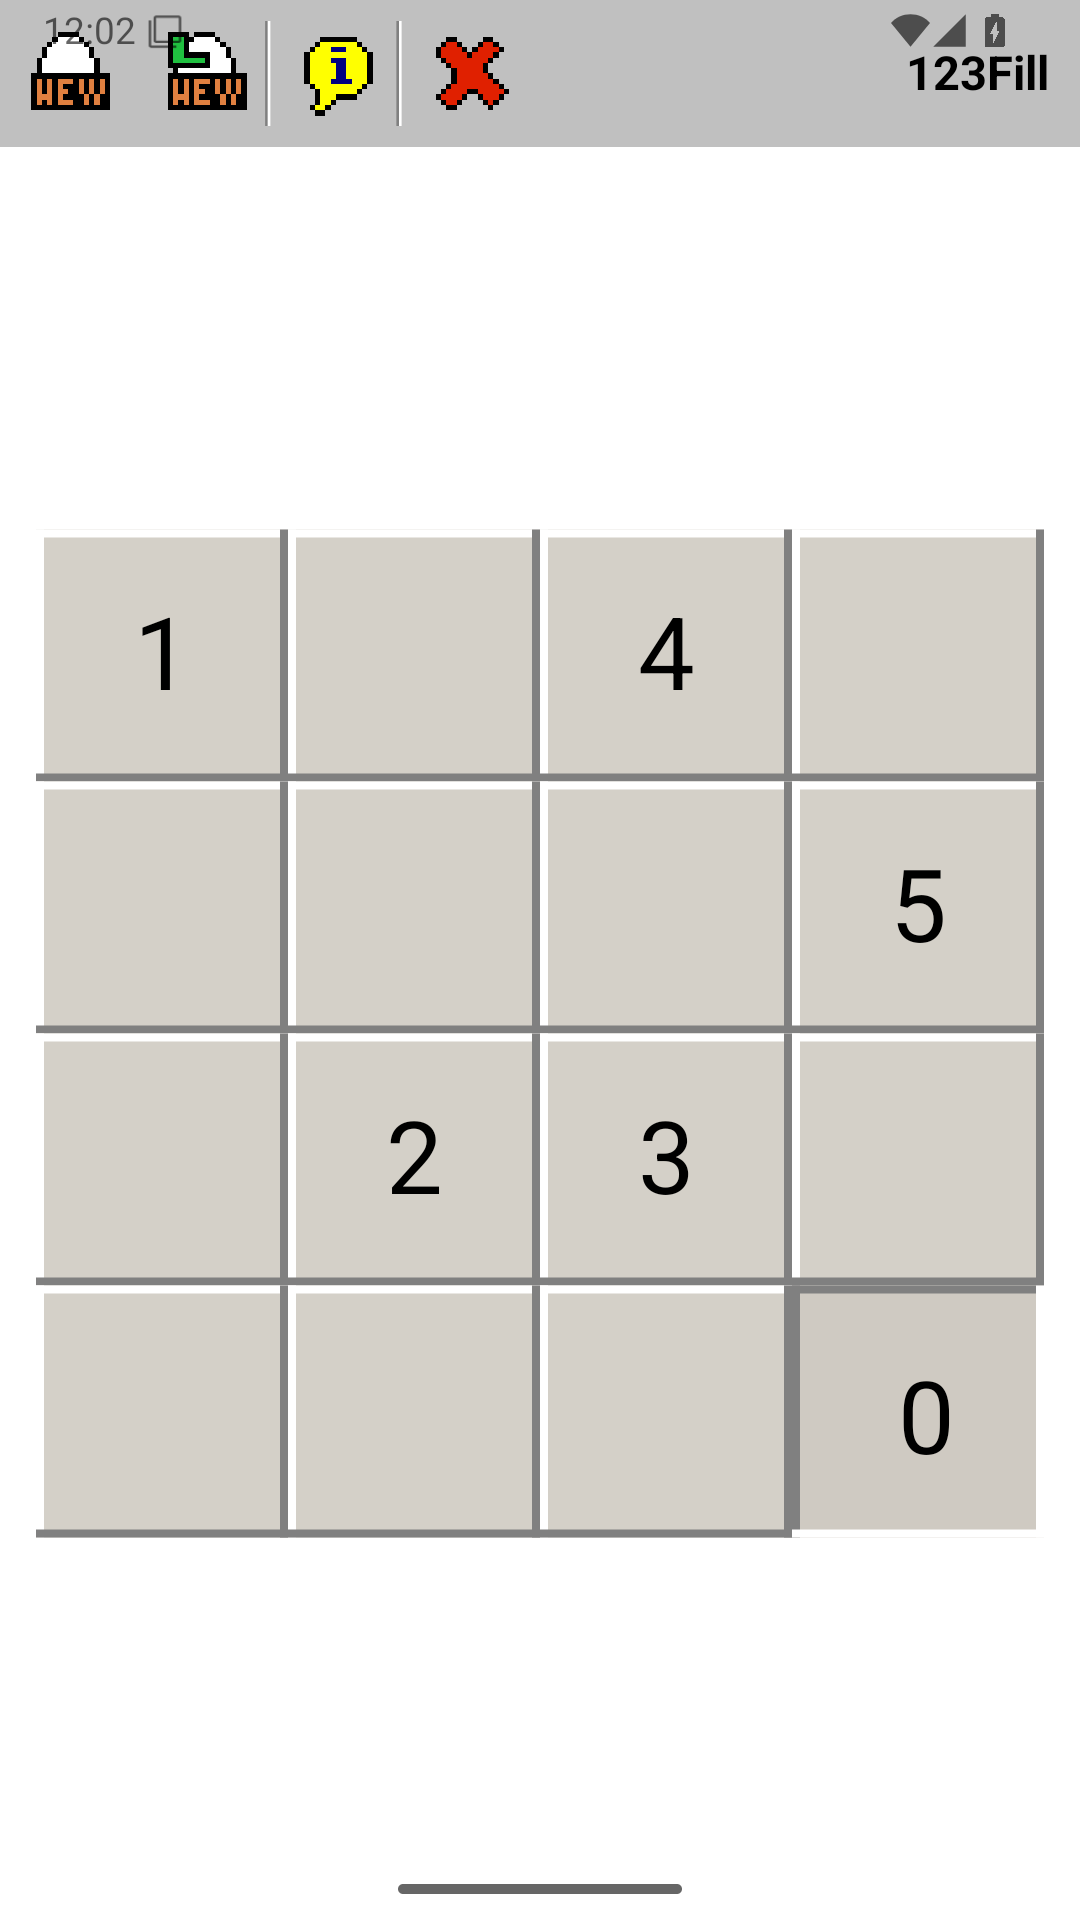
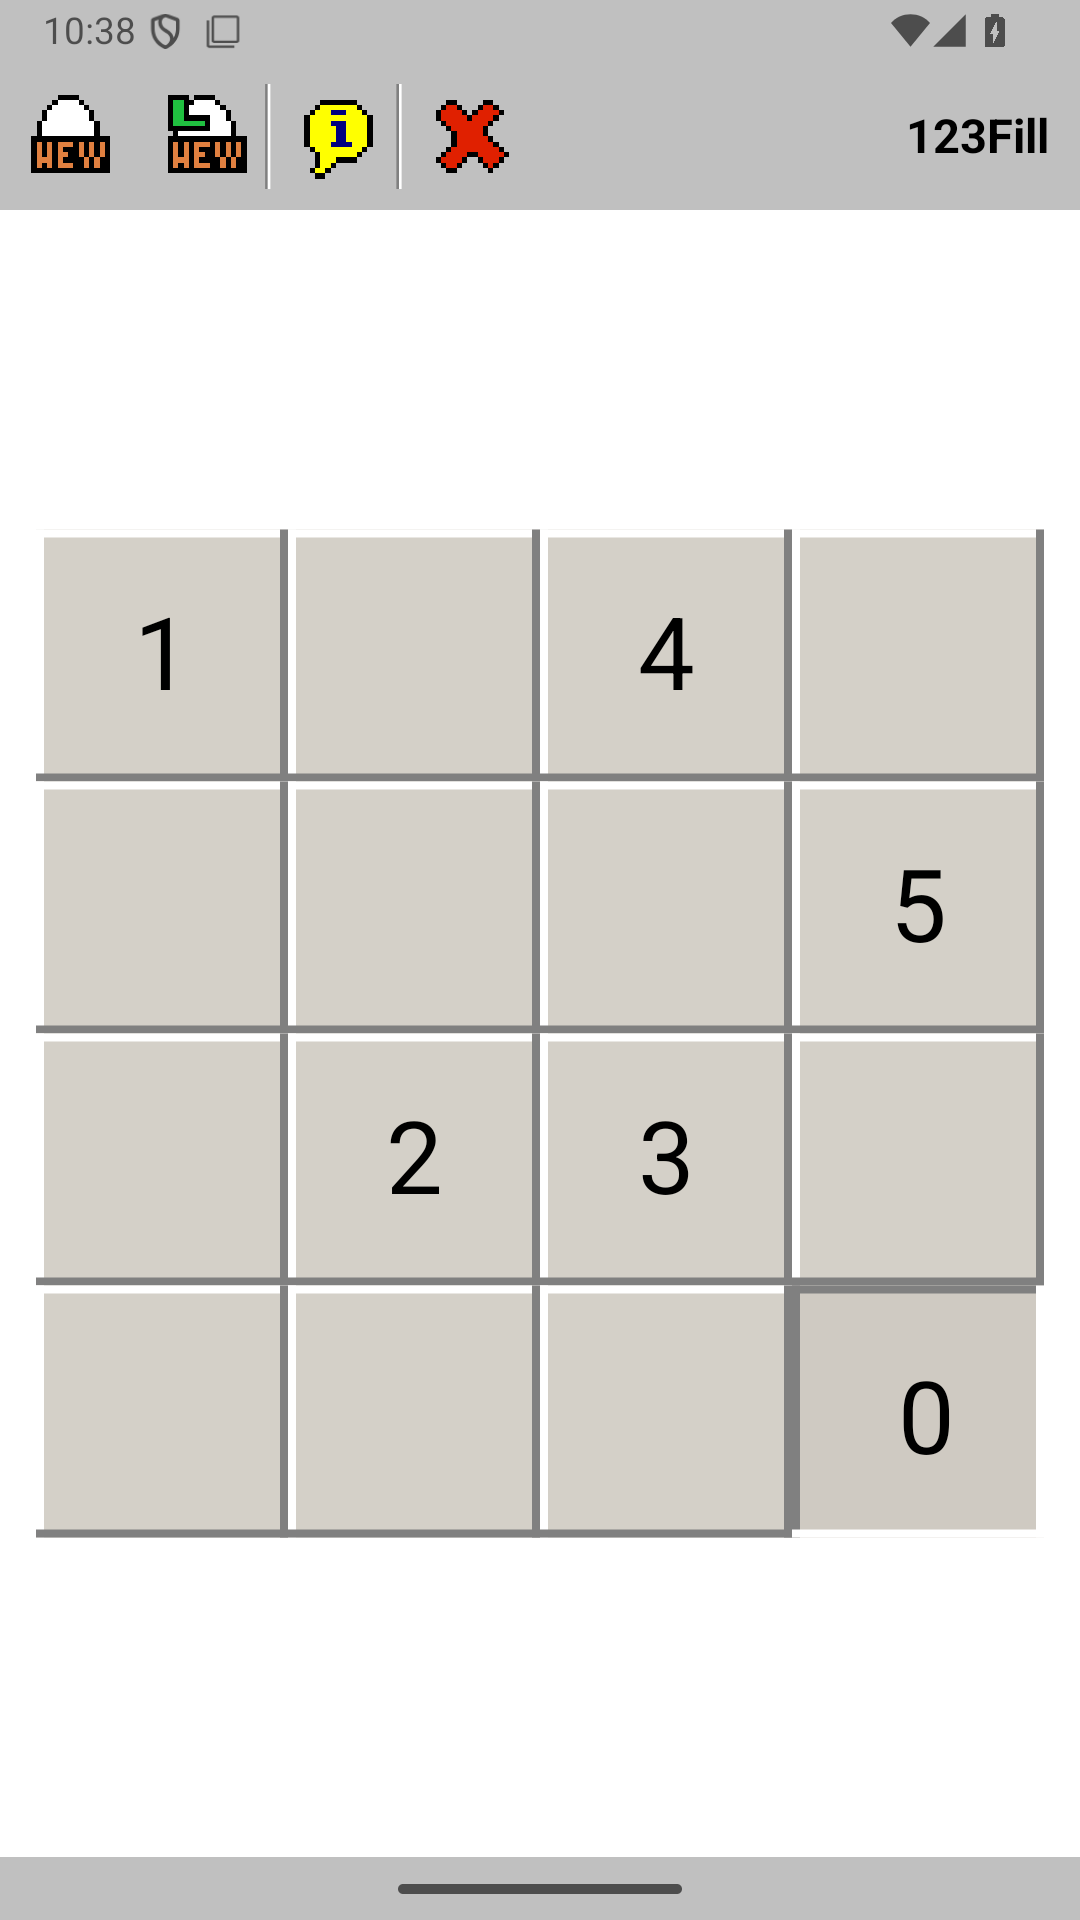
Fix toolbar insets and publish 1.0.1

Changed region(s): [[0.0, 0.0, 1.0, 0.125], [0.0, 0.9688, 1.0, 1.0]]

diff --git a/app/src/main/java/com/gritsulyak/prevtonextfill/MainActivity.java b/app/src/main/java/com/gritsulyak/prevtonextfill/MainActivity.java
@@ -5,13 +5,16 @@ package com.gritsulyak.prevtonextfill;
 
 import android.app.Activity;
 import android.app.AlertDialog;
-import android.graphics.Color;
+import android.content.pm.PackageManager;
+import android.graphics.Insets;
 import android.os.Build;
 import android.os.Bundle;
 import android.text.InputType;
 import android.view.View;
 import android.view.ViewGroup;
 import android.view.Window;
+import android.view.WindowInsets;
+import android.view.WindowInsetsController;
 import android.view.WindowManager;
 import android.widget.EditText;
 import android.widget.FrameLayout;
@@ -26,6 +29,8 @@ import com.gritsulyak.prevtonextfill.game.Levels;
 public final class MainActivity extends Activity
         implements GameView.Listener, ToolbarView.Listener {
 
+    private static final int COLOR_SYSTEM_BAR = 0xFFC0C0C0;
+
     private GameView gameView;
 
     @Override
@@ -39,10 +44,27 @@ public final class MainActivity extends Activity
 
     private void configureSystemBars() {
         Window window = getWindow();
-        window.setStatusBarColor(Color.rgb(192, 192, 192));
-        window.setNavigationBarColor(Color.rgb(192, 192, 192));
+        window.setStatusBarColor(COLOR_SYSTEM_BAR);
+        window.setNavigationBarColor(COLOR_SYSTEM_BAR);
 
-        int flags = View.SYSTEM_UI_FLAG_LIGHT_STATUS_BAR;
+        if (Build.VERSION.SDK_INT >= Build.VERSION_CODES.R) {
+            // Android 15 (targetSdk 35) forces edge-to-edge, but opt in
+            // explicitly on every version so the layout is identical and the
+            // root view always receives the system-bar insets we apply below.
+            window.setDecorFitsSystemWindows(false);
+            WindowInsetsController controller = window.getDecorView().getWindowInsetsController();
+            if (controller != null) {
+                int appearance = WindowInsetsController.APPEARANCE_LIGHT_STATUS_BARS
+                        | WindowInsetsController.APPEARANCE_LIGHT_NAVIGATION_BARS;
+                controller.setSystemBarsAppearance(appearance, appearance);
+            }
+            return;
+        }
+
+        int flags = View.SYSTEM_UI_FLAG_LAYOUT_STABLE
+                | View.SYSTEM_UI_FLAG_LAYOUT_FULLSCREEN
+                | View.SYSTEM_UI_FLAG_LAYOUT_HIDE_NAVIGATION
+                | View.SYSTEM_UI_FLAG_LIGHT_STATUS_BAR;
         if (Build.VERSION.SDK_INT >= Build.VERSION_CODES.O) {
             flags |= View.SYSTEM_UI_FLAG_LIGHT_NAVIGATION_BAR;
         }
@@ -52,7 +74,9 @@ public final class MainActivity extends Activity
     private void buildUi() {
         LinearLayout root = new LinearLayout(this);
         root.setOrientation(LinearLayout.VERTICAL);
-        root.setBackgroundColor(Color.WHITE);
+        // The root shows through the transparent system-bar areas on Android
+        // 15+, so keep the Win32 grey there as well as behind the toolbar.
+        root.setBackgroundColor(COLOR_SYSTEM_BAR);
 
         ToolbarView toolbar = new ToolbarView(this);
         toolbar.setId(R.id.toolbar_view);
@@ -66,7 +90,40 @@ public final class MainActivity extends Activity
         root.addView(gameView, new LinearLayout.LayoutParams(
                 ViewGroup.LayoutParams.MATCH_PARENT, 0, 1f));
 
+        applySystemBarInsets(root);
         setContentView(root);
+        root.requestApplyInsets();
+    }
+
+    /**
+     * Keeps the Win32 toolbar below the Android status bar (clock/battery) and
+     * above the navigation bar. Without this, Android 15 draws the toolbar
+     * underneath the status bar, where the system bar swallows the taps.
+     */
+    private void applySystemBarInsets(View root) {
+        root.setOnApplyWindowInsetsListener((view, insets) -> {
+            int left;
+            int top;
+            int right;
+            int bottom;
+
+            if (Build.VERSION.SDK_INT >= Build.VERSION_CODES.R) {
+                Insets bars = insets.getInsets(
+                        WindowInsets.Type.systemBars() | WindowInsets.Type.displayCutout());
+                left = bars.left;
+                top = bars.top;
+                right = bars.right;
+                bottom = bars.bottom;
+            } else {
+                left = insets.getSystemWindowInsetLeft();
+                top = insets.getSystemWindowInsetTop();
+                right = insets.getSystemWindowInsetRight();
+                bottom = insets.getSystemWindowInsetBottom();
+            }
+
+            view.setPadding(left, top, right, bottom);
+            return insets;
+        });
     }
 
     private int dp(int value) {
@@ -162,10 +219,17 @@ public final class MainActivity extends Activity
     }
 
     private void showAbout() {
+        String version = "";
+        try {
+            version = getPackageManager().getPackageInfo(getPackageName(), 0).versionName;
+        } catch (PackageManager.NameNotFoundException ignored) {
+            // Should not happen for our own package; keep the dialog usable.
+        }
+
         new AlertDialog.Builder(this)
                 .setTitle(R.string.about_title)
                 .setIcon(R.mipmap.ic_launcher)
-                .setMessage(R.string.about_text)
+                .setMessage(getString(R.string.about_text, version))
                 .setPositiveButton(R.string.ok, null)
                 .show();
     }

diff --git a/app/src/androidTest/java/com/gritsulyak/prevtonextfill/MainActivityE2ETest.java b/app/src/androidTest/java/com/gritsulyak/prevtonextfill/MainActivityE2ETest.java
@@ -17,9 +17,12 @@ import static org.hamcrest.Matchers.containsString;
 import static org.hamcrest.Matchers.is;
 import static org.junit.Assert.assertEquals;
 import static org.junit.Assert.assertNotNull;
+import static org.junit.Assert.assertTrue;
 
 import android.graphics.PointF;
+import android.os.Build;
 import android.view.View;
+import android.view.WindowInsets;
 import android.widget.EditText;
 
 import androidx.test.core.app.ActivityScenario;
@@ -66,6 +69,32 @@ public final class MainActivityE2ETest {
         onView(withId(R.id.toolbar_view)).check(matches(isDisplayed()));
         onView(withId(R.id.game_view)).check(matches(isDisplayed()));
         assertState(0, "OPAPA", 1, 3, 3);
+    }
+
+    @Test
+    public void toolbarAndItsButtonsAreBelowTheStatusBar() {
+        scenario.onActivity(activity -> {
+            ToolbarView toolbar = activity.findViewById(R.id.toolbar_view);
+            WindowInsets insets = toolbar.getRootWindowInsets();
+            assertNotNull(insets);
+
+            int statusBarBottom = Build.VERSION.SDK_INT >= Build.VERSION_CODES.R
+                    ? insets.getInsets(WindowInsets.Type.statusBars()).top
+                    : insets.getSystemWindowInsetTop();
+            int[] location = new int[2];
+            toolbar.getLocationOnScreen(location);
+
+            assertTrue("toolbar top " + location[1] + " must be below status bar "
+                            + statusBarBottom,
+                    location[1] >= statusBarBottom);
+
+            for (int action = 0; action < 4; action++) {
+                PointF center = toolbar.getButtonCenter(action);
+                assertNotNull("toolbar button " + action + " has no bounds", center);
+                assertTrue("toolbar button " + action + " must be below status bar",
+                        location[1] + center.y > statusBarBottom);
+            }
+        });
     }
 
     @Test
@@ -128,7 +157,7 @@ public final class MainActivityE2ETest {
     public void aboutDialogIsShown() {
         clickToolbar(ToolbarView.ACTION_ABOUT);
         onView(withText(R.string.about_title)).check(matches(isDisplayed()));
-        onView(withText(containsString("Android port: 2026"))).check(matches(isDisplayed()));
+        onView(withText(containsString("Android port: 1.0.1"))).check(matches(isDisplayed()));
         clickDialogPositive();
     }
 

diff --git a/app/src/main/java/com/gritsulyak/prevtonextfill/ToolbarView.java b/app/src/main/java/com/gritsulyak/prevtonextfill/ToolbarView.java
@@ -58,6 +58,7 @@ public final class ToolbarView extends View {
         super(context, attrs, defStyleAttr);
 
         setBackgroundColor(COLOR_TOOLBAR);
+        setClickable(true);
         setFocusable(true);
         setContentDescription("123Fill toolbar");
 

diff --git a/README.md b/README.md
@@ -1,7 +1,10 @@
 # 1-2-3 Fill for Android
 
 A faithful Android port of the original Win32 puzzle game **1-2-3 fill** by
-Roman T. Gritsulyak.
+Roman T. Gritsulyak. The original project is published at
+<https://github.com/gritsulyak/GameDev>; this repository is its Android port.
+
+Current release: **1.0.1**.
 
 <img src="docs/screenshot-opapa.png" alt="1-2-3 Fill running on Android" width="360">
 
@@ -18,8 +21,10 @@ is the original behaviour that makes levels with repeated numbers solvable.
 - The original movement, target-sequence, and jump-back rules.
 - The Win32-style grey bevel buttons, black target numbers, and the original
   20x20 monochrome path/head sprites.
-- The original toolbar actions: New Game, Level From Beginning (cheat code),
-  About, and Exit.
+- The original toolbar actions: New Game (`IDM_NEW`), Level From Beginning
+  (`IDM_NEWLEVEL`, cheat code), About (`IDM_ABOUT`), and Exit (`IDM_EXIT`).
+- The toolbar sits below the Android status bar (clock/battery) and above the
+  navigation bar, including on Android 15 where apps are drawn edge-to-edge.
 - The original modal dialogs and cheat codes.
 - The original `NEXTSTAGE` entry is kept as an end marker; the Android game
   wraps back to `OPAPA` after `FLOWERS` (level 28) instead of trying to play
@@ -85,8 +90,9 @@ rules:
 ```
 
 End-to-end UI tests launch the real activity on an emulator/device, tap the
-custom-drawn board and toolbar through Espresso, play a complete level
-(including the jump-back moves), and verify the dialogs and level transition:
+custom-drawn board and toolbar through Espresso, verify that the toolbar is
+below the status bar, play a complete level (including the jump-back moves),
+and verify the dialogs and level transition:
 
 ```bash
 # Start an API 26+ emulator first, then:
@@ -106,7 +112,7 @@ The e2e suite is in
 3. The instrumentation/e2e suite on API 26 (Android 8.0) and API 35
    emulators.
 
-Pushing a tag such as `v1.0.0` additionally creates a GitHub Release with the
+Pushing a tag such as `v1.0.1` additionally creates a GitHub Release with the
 signed release APK attached. If the release signing secrets are configured,
 that APK is signed with the real release key; otherwise CI uses the debug key.
 
@@ -126,7 +132,7 @@ base64 -w 0 release.jks
 To build the tagged version manually:
 
 ```bash
-./gradlew assembleRelease -PversionName=1.0.0 -PversionCode=100
+./gradlew assembleRelease -PversionName=1.0.1 -PversionCode=101
 ```
 
 ## Project layout
